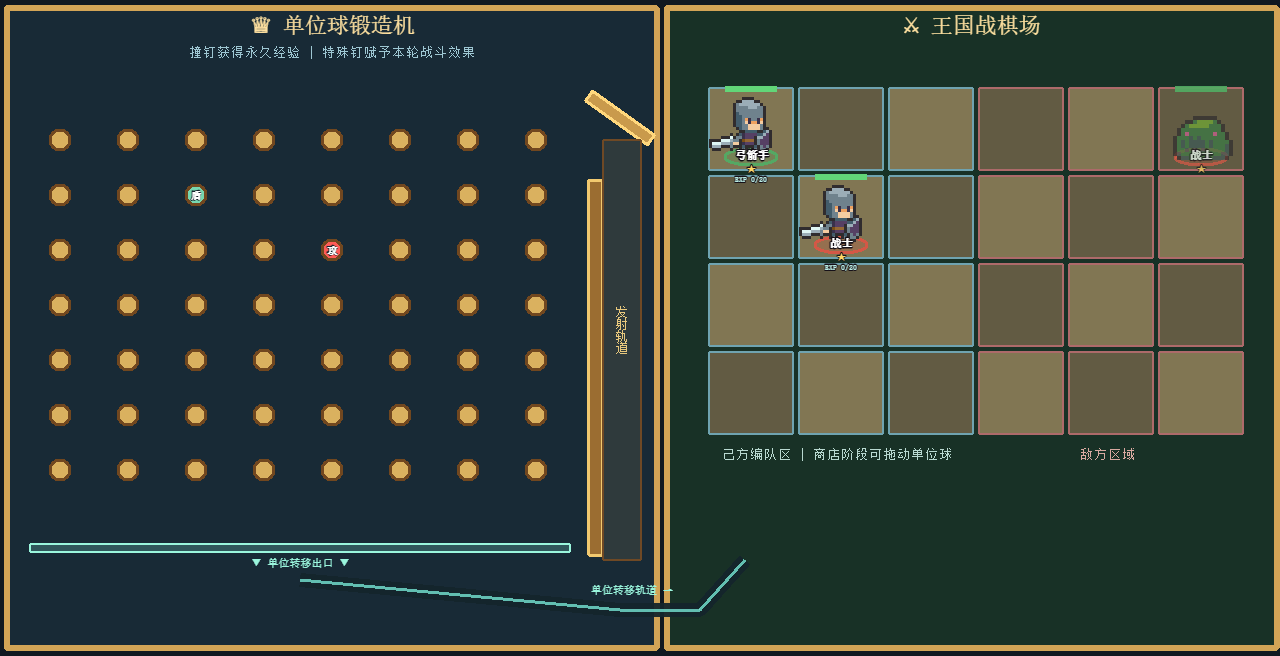
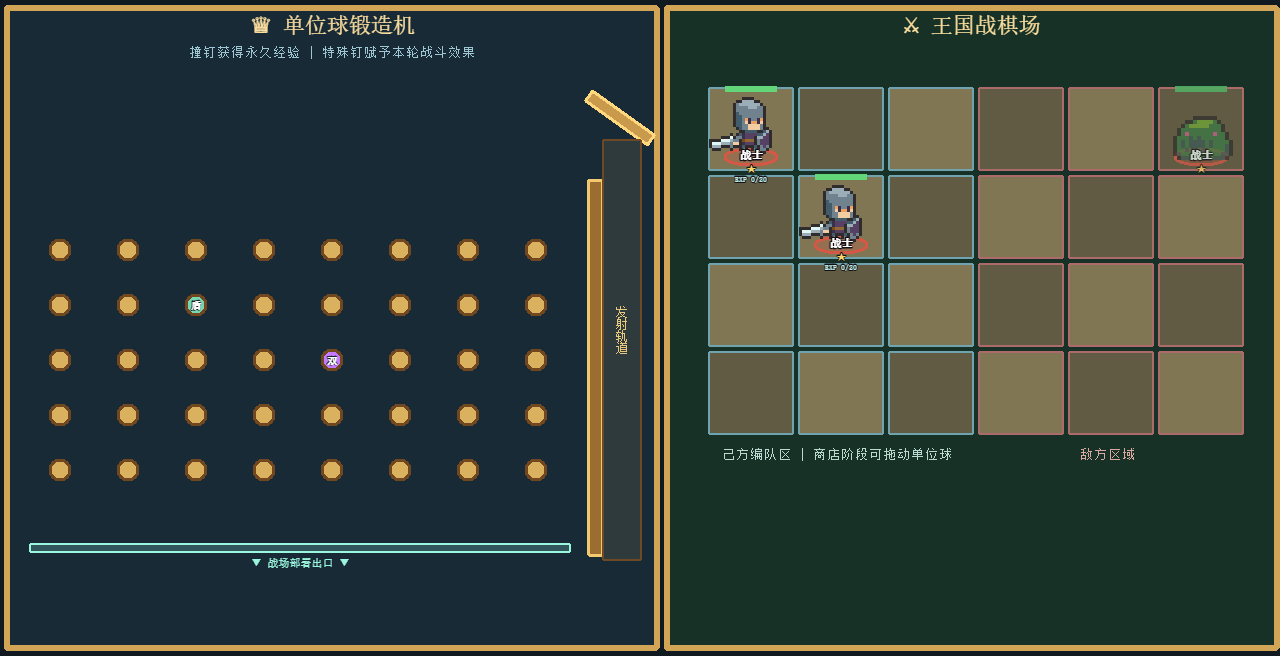
feat: open peg field and deploy balls instantly

diff --git a/src/phaser/scenes/GameScene.ts b/src/phaser/scenes/GameScene.ts
@@ -20,8 +20,7 @@ export class GameScene extends Phaser.Scene{
   private pegViews=new Map<number,{ring:Phaser.GameObjects.Arc;text:Phaser.GameObjects.Text}>();
   private prepViews:Phaser.GameObjects.GameObject[]=[];
   private battleViews=new Map<string,UnitView>();
-  private transferViews=new Map<string,Phaser.GameObjects.Container>();
-  private transferring=new Set<string>();
+  private deployedViews=new Map<string,Phaser.GameObjects.Container>();
   private reduced=false;
   private acc=0;
   private unsub?:()=>void;
@@ -78,10 +77,7 @@ export class GameScene extends Phaser.Scene{
     }
     this.matter.add.rectangle(TRACK.exit.x,TRACK.exit.y,TRACK.exit.width,TRACK.exit.height,{isStatic:true,isSensor:true,label:'exit'});
     this.add.rectangle(TRACK.exit.x,TRACK.exit.y,TRACK.exit.width,8,0x79d9ca,.25).setStrokeStyle(2,0x9af6dd);
-    this.add.text(300,558,'▼ 单位转移出口 ▼',{fontFamily:'monospace',fontSize:'11px',color:'#9af6dd'}).setOrigin(.5,0);
-    const lane=this.add.graphics().setDepth(1);lane.lineStyle(14,0x14252b,.95).beginPath().moveTo(300,580).lineTo(620,610).lineTo(700,610).lineTo(745,560).strokePath();
-    lane.lineStyle(3,0x75e5d2,.8).beginPath().moveTo(300,580).lineTo(620,610).lineTo(700,610).lineTo(745,560).strokePath();
-    this.add.text(632,590,'单位转移轨道 →',{fontFamily:'monospace',fontSize:'11px',color:'#9af6dd'}).setOrigin(.5);
+    this.add.text(300,558,'▼ 战场部署出口 ▼',{fontFamily:'monospace',fontSize:'11px',color:'#9af6dd'}).setOrigin(.5,0);
   }
 
   private drawBoard(){
@@ -135,23 +131,19 @@ export class GameScene extends Phaser.Scene{
     }catch{}
   }
   private exitBall(id:string){
-    if(!this.active||this.active.id!==id||this.transferring.has(id))return;
-    this.transferring.add(id);
-    const before=this.c.snapshot().balls.find(ball=>ball.id===id)!,x=this.active.img.x,y=this.active.img.y;
+    if(!this.active||this.active.id!==id)return;
+    const before=this.c.snapshot().balls.find(ball=>ball.id===id)!;
     this.clearRetry();this.active.img.destroy();this.active=undefined;this.c.finishBallLaunch(id);
     const after=this.c.snapshot().balls.find(ball=>ball.id===id)!;
     if(before.form!==after.form)this.banner(`${FORM_NAME[before.form]} 进化为 ${FORM_NAME[after.form]}！`,CLASS_COLOR[after.class]);
     else if(before.star!==after.star)this.banner(`${FORM_NAME[after.form]} 升至 ${after.star} 星！`,0xffd65c);
-    const token=this.add.image(x,y,`${after.class}-ball`).setDepth(20).setScale(1.05),target=boardPoint(after.cell.row,after.cell.col);
-    this.tweens.chain({targets:token,tweens:[
-      {x:300,y:580,duration:260,ease:'Sine.In'},{x:650,y:610,duration:560,ease:'Sine.InOut'},
-      {x:745,y:560,duration:220,ease:'Sine.Out'},{x:target.x,y:target.y,duration:420,ease:'Back.Out'},
-    ],onComplete:()=>{
-      token.destroy();this.transferring.delete(id);this.c.completeBallTransfer(id);
-      if(this.c.snapshot().phase==='LAUNCHING'){
-        const waiting=this.makeUnit(target.x,target.y,after.form,after.star,false,after);this.transferViews.set(id,waiting.root);
-        this.time.delayedCall(220,()=>this.spawnCurrentBall());
-      }
+    const target=boardPoint(after.cell.row,after.cell.col);
+    const waiting=this.makeUnit(target.x,target.y,after.form,after.star,false,after);
+    waiting.root.setScale(.75).setAlpha(0);this.deployedViews.set(id,waiting.root);
+    this.spawnBurst(target.x,target.y,after.class);
+    this.tweens.add({targets:waiting.root,scale:1,alpha:1,duration:180,ease:'Back.Out',onComplete:()=>{
+      this.c.completeBallTransfer(id);
+      if(this.c.snapshot().phase==='LAUNCHING')this.time.delayedCall(120,()=>this.spawnCurrentBall());
     }});
   }
 
@@ -163,7 +155,7 @@ export class GameScene extends Phaser.Scene{
   }
   private clearPrep(){for(const view of this.prepViews)view.destroy();this.prepViews=[]}
   private renderPrep(state:RunState){
-    this.clearPrep();this.clearBattle();this.clearTransferViews();
+    this.clearPrep();this.clearBattle();this.clearDeployedViews();
     for(const enemy of this.c.encounter().enemies){const point=boardPoint(enemy.row,enemy.col),view=this.makeUnit(point.x,point.y,enemy.form,enemy.star,true);view.root.setAlpha(.72);this.prepViews.push(view.root)}
     for(const ball of state.balls){
       const point=boardPoint(ball.cell.row,ball.cell.col),view=this.makeUnit(point.x,point.y,ball.form,ball.star,false,ball);
@@ -213,11 +205,11 @@ export class GameScene extends Phaser.Scene{
   private clearPegDrag(){this.dragPegSlot=undefined;if(this.dragMarker){this.dragMarker.destroy();this.dragMarker=undefined}}
 
   private clearBattle(){for(const view of this.battleViews.values())view.root.destroy();this.battleViews.clear()}
-  private clearTransferViews(){for(const view of this.transferViews.values())view.destroy();this.transferViews.clear()}
+  private clearDeployedViews(){for(const view of this.deployedViews.values())view.destroy();this.deployedViews.clear()}
   private renderBattle(){
     const battle=this.c.battleSnapshot();if(!battle)return;
     if(this.prepViews.length)this.clearPrep();
-    if(this.transferViews.size)this.clearTransferViews();
+    if(this.deployedViews.size)this.clearDeployedViews();
     for(const fighter of battle.fighters){
       let view=this.battleViews.get(fighter.id);
       if(fighter.hp>0){
@@ -261,6 +253,15 @@ export class GameScene extends Phaser.Scene{
     for(let index=0;index<(this.reduced?3:7);index++){
       const spark=this.add.image(x,y,'spark').setTint(color).setScale(.4).setDepth(28);
       this.tweens.add({targets:spark,x:x+Phaser.Math.Between(-22,22),y:y+Phaser.Math.Between(-22,16),alpha:0,scale:0,duration:260,onComplete:()=>spark.destroy()});
+    }
+  }
+  private spawnBurst(x:number,y:number,ballClass:BallClass){
+    this.burst(x,y,CLASS_COLOR[ballClass]);
+    const flash=this.add.circle(x,y,18,0xffffff,.55).setStrokeStyle(4,CLASS_COLOR[ballClass]).setDepth(24);
+    this.tweens.add({targets:flash,scale:2,alpha:0,duration:180,ease:'Cubic.Out',onComplete:()=>flash.destroy()});
+    for(let index=0;index<(this.reduced?3:6);index++){
+      const puff=this.add.circle(x+Phaser.Math.Between(-8,8),y+Phaser.Math.Between(-6,6),Phaser.Math.Between(5,8),index%2?0xd8e4df:0xffffff,.72).setDepth(23);
+      this.tweens.add({targets:puff,x:puff.x+Phaser.Math.Between(-15,15),y:puff.y+Phaser.Math.Between(-15,8),scale:1.55,alpha:0,duration:220,ease:'Cubic.Out',onComplete:()=>puff.destroy()});
     }
   }
   private floatText(x:number,y:number,text:string,color:number){

diff --git a/src/phaser/pachinko/geometry.test.ts b/src/phaser/pachinko/geometry.test.ts
@@ -14,11 +14,11 @@ describe('pachinko launch track geometry',()=>{
     expect(TRACK.innerRailTop-guideYAtInnerRail).toBeGreaterThan(TRACK.spawn.radius*2+12);
     expect(TRACK.guide.left).toBeLessThan(TRACK.innerRailX);
   });
-  it('keeps every 8 by 7 grid peg outside launcher and transfer safe zones',()=>{
-    expect(GRID_SLOTS).toHaveLength(56);
+  it('keeps every lower 8 by 5 grid peg outside launcher and exit safe zones',()=>{
+    expect(GRID_SLOTS).toHaveLength(40);
     expect(new Set(GRID_SLOTS.map(peg=>peg.x))).toHaveLength(8);
-    expect(new Set(GRID_SLOTS.map(peg=>peg.y))).toHaveLength(7);
-    for(const peg of GRID_SLOTS){expect(peg.x).toBeLessThanOrEqual(536);expect(peg.y).toBeGreaterThanOrEqual(140);expect(peg.y).toBeLessThanOrEqual(470)}
+    expect(new Set(GRID_SLOTS.map(peg=>peg.y))).toHaveLength(5);
+    for(const peg of GRID_SLOTS){expect(peg.x).toBeLessThanOrEqual(536);expect(peg.y).toBeGreaterThanOrEqual(250);expect(peg.y).toBeLessThanOrEqual(470)}
   });
   it('only allows a returned ball at the launch origin to relaunch',()=>{
     expect(isRelaunchReady(TRACK.spawn.x,TRACK.spawn.y,1,900)).toBe(true);

diff --git a/src/game/peg-grid.test.ts b/src/game/peg-grid.test.ts
@@ -2,13 +2,13 @@ import{describe,expect,it}from'vitest';
 import{applyPegHit,createLaunchResult,GRID_SLOTS}from'./peg-grid';
 
 describe('peg grid',()=>{
-  it('creates an evenly spaced 8 by 7 grid inside the safe bounds',()=>{
-    expect(GRID_SLOTS).toHaveLength(56);
+  it('creates an evenly spaced 8 by 5 grid with a clear upper field',()=>{
+    expect(GRID_SLOTS).toHaveLength(40);
     expect(new Set(GRID_SLOTS.map(slot=>slot.x))).toHaveLength(8);
-    expect(new Set(GRID_SLOTS.map(slot=>slot.y))).toHaveLength(7);
+    expect(new Set(GRID_SLOTS.map(slot=>slot.y))).toHaveLength(5);
     expect(Math.min(...GRID_SLOTS.map(slot=>slot.x))).toBe(60);
     expect(Math.max(...GRID_SLOTS.map(slot=>slot.x))).toBe(536);
-    expect(Math.min(...GRID_SLOTS.map(slot=>slot.y))).toBe(140);
+    expect(Math.min(...GRID_SLOTS.map(slot=>slot.y))).toBe(250);
     expect(Math.max(...GRID_SLOTS.map(slot=>slot.y))).toBe(470);
   });
 

diff --git a/src/game/peg-grid.ts b/src/game/peg-grid.ts
@@ -1,11 +1,11 @@
 import type{LaunchResult,PegSlot,PegType}from'./model';
 
 export const GRID_COLUMNS=8;
-export const GRID_ROWS=7;
+export const GRID_ROWS=5;
 export const GRID_SLOTS:PegSlot[]=Array.from({length:GRID_COLUMNS*GRID_ROWS},(_,id)=>({
   id,
   x:60+(id%GRID_COLUMNS)*68,
-  y:140+Math.floor(id/GRID_COLUMNS)*55,
+  y:250+Math.floor(id/GRID_COLUMNS)*55,
   type:'normal',
 }));
 

diff --git a/docs/test-report.md b/docs/test-report.md
@@ -5,23 +5,24 @@
 ## 自动化结果
 
 - `npm.cmd test`：7 个测试文件、20 个测试全部通过。
-- 覆盖单位球跨节点经验、最终形态封顶、8×7 固定钉位、回响效果、人口经验、递增刷新、商店锁定、人口上限、发射顺序、底部转移、自动战斗、护盾吸收、胜利金币与刷新重置。
+- 覆盖单位球跨节点经验、最终形态封顶、8×5 固定钉位、回响效果、人口经验、递增刷新、商店锁定、人口上限、发射顺序、即时部署、自动战斗、护盾吸收、胜利金币与刷新重置。
 - `npm.cmd run build`：TypeScript 检查和 Vite 生产构建通过。
 - `git diff --check`：无空白错误。
 - 本地服务器 `http://127.0.0.1:5173/` 返回 HTTP 200。
 
 ## 画面与流程验收
 
-- 初始画面显示 56 个均匀 grid 钉位，发射轨道顶部入口保持开放。
+- 初始画面显示 40 个均匀 grid 钉位；顶部两排完全留空，首排从 Y 250 开始。
 - 特殊钉可以替换普通钉，并以颜色和“攻 / 速 / 盾 / 双 / 弹”符号区分。
 - 单位球能从右侧封闭发射轨道进入场地；返回发射起点时可点击补力。
 - 每次撞钉显示 `+10 EXP`；升星和进化显示居中横幅与镜头反馈。
-- 球从底部统一出口进入发光转移轨道，多球依次到位，最后一球到位后自动战斗。
+- 球触碰底部部署出口后立即在右侧预设格出现，仅播放约 180ms 的原地闪光与卡通烟雾，没有跨屏滚动轨道。
+- 多球按“部署一颗、发射下一颗”的顺序处理，最后一颗出现后自动战斗。
 - 战斗中攻击方播放攻击动画，受击方播放受击动画，并显示弹道、爆点、伤害数字与护盾反馈。
-- 已保存代表性截图：商店、钉子构筑、发射、转移和战斗。
+- 已保存代表性截图：商店、钉子构筑、发射、即时部署和战斗。
 
 ## 已知限制
 
 - Phaser 主包形成约 1.24 MB 的单个未压缩产物；gzip 后约 345 KB，当前仅触发 Vite 的 chunk-size 提示，不影响原型运行。
-- 当前战士与敌人沿用已有像素动画素材；单位球、钉子、轨道和特效为程序化像素风美术。
+- 当前战士与敌人沿用已有像素动画素材；单位球、钉子和出生特效为程序化像素风美术。
 - Windows 沙箱阻止了浏览器控制连接，因此本轮使用页面内临时 QA 驱动实际跑完流程并由 Phaser 渲染器保存截图；临时驱动已从正式入口移除。
